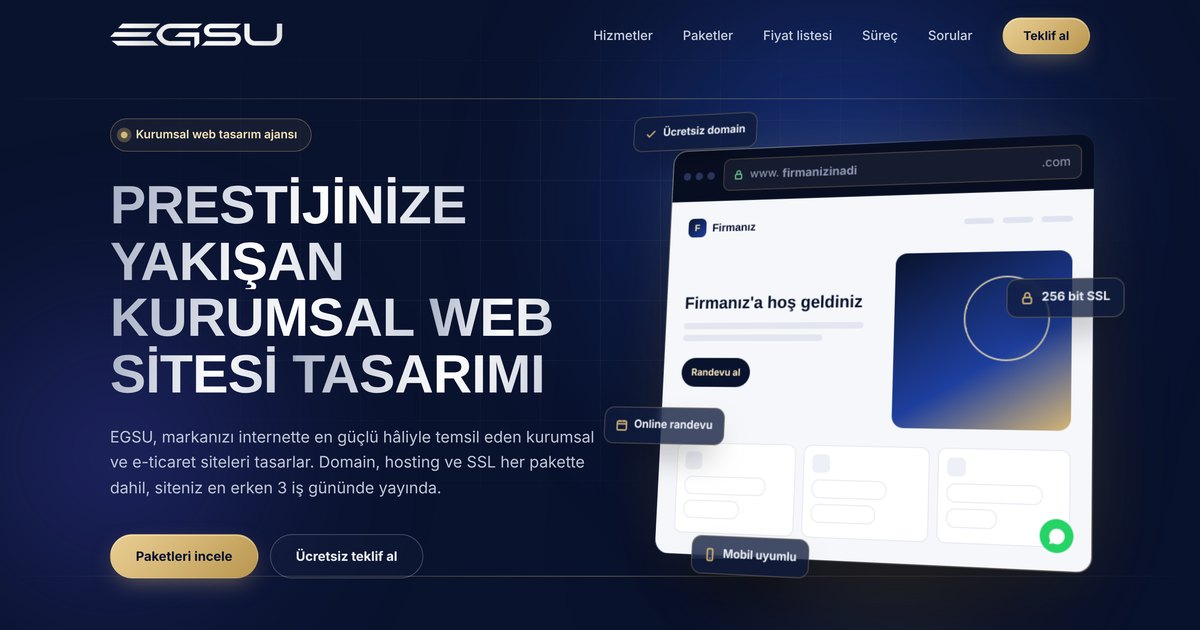
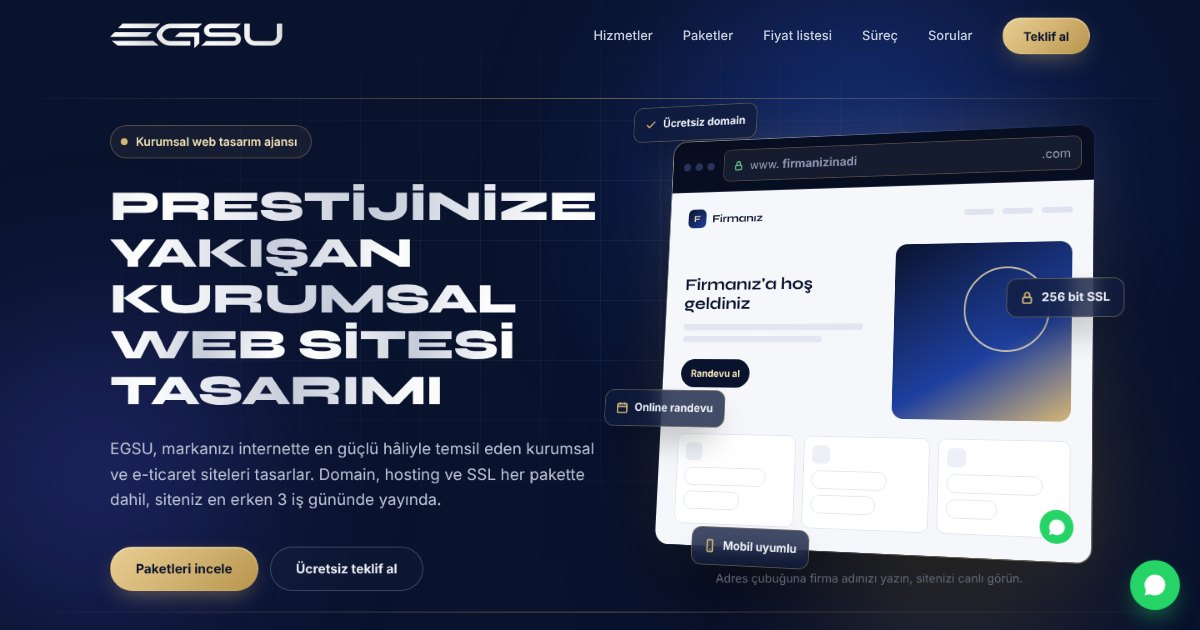
Google etiketi (GTM-5QWC6R9S) ve güncel paylaşım görseli
Etiket sayfa yüklendikten sonra yükleniyor, kimlik panelden değiştirilebilir.

Claude-Session: https://claude.ai/code/session_017BsL4oFVdKEUqwt59FjHYg

diff --git a/yonetim/render.js b/yonetim/render.js
@@ -48,7 +48,9 @@
   function delay(i, step, base) { return ' style="--d:' + ((base || 0) + i * step).toFixed(2).replace(/0+$/, '').replace(/^0/, '') + 's"'; }
 
   function head(o) {
-    return '<!DOCTYPE html>\n<html lang="tr">\n<head>\n<meta charset="UTF-8">\n' +
+    var tag = /^(GTM|G|AW)-[A-Z0-9]+$/.test(o.tagId || '') ? o.tagId : '';
+    var tagJs = tag ? '<script>window.dataLayer=window.dataLayer||[];function gtag(){dataLayer.push(arguments)}gtag(\'js\',new Date());' + (tag.indexOf('GTM-') === 0 ? '' : 'gtag(\'config\',\'' + tag + '\');') + '(function(){function l(){var s=document.createElement(\'script\');s.async=true;s.src=\'https://www.googletagmanager.com/' + (tag.indexOf('GTM-') === 0 ? 'gtm.js' : 'gtag/js') + '?id=' + tag + '\';document.head.appendChild(s)}if(document.readyState===\'complete\')setTimeout(l,1);else addEventListener(\'load\',function(){setTimeout(l,1)})})()</script>\n' : '';
+    return '<!DOCTYPE html>\n<html lang="tr">\n<head>\n' + tagJs + '<meta charset="UTF-8">\n' +
       '<script>(function(h){h.classList.add(\'js\');if(window.matchMedia&&matchMedia(\'(prefers-reduced-motion: reduce)\').matches)h.classList.add(\'rm\');try{if(' + (o.pre ? 'innerWidth<=768||sessionStorage.getItem(\'egsu-pre\')' : 'true') + ')h.classList.add(\'nopre\');sessionStorage.setItem(\'egsu-pre\',\'1\')}catch(e){h.classList.add(\'nopre\')}})(document.documentElement)</script>\n' +
       '<meta name="viewport" content="width=device-width, initial-scale=1">\n' +
       '<title>' + esc(o.title) + '</title>\n' +
@@ -62,10 +64,10 @@
       '<meta property="og:url" content="' + o.url + '">\n' +
       '<meta property="og:title" content="' + esc(o.shareTitle) + '">\n' +
       '<meta property="og:description" content="' + esc(o.shareDescription) + '">\n' +
-      '<meta property="og:image" content="' + SITE + '/og-image.jpg?v=5">\n<meta property="og:image:secure_url" content="' + SITE + '/og-image.jpg?v=5">\n' +
+      '<meta property="og:image" content="' + SITE + '/og-image.jpg?v=6">\n<meta property="og:image:secure_url" content="' + SITE + '/og-image.jpg?v=6">\n' +
       '<meta property="og:image:type" content="image/jpeg">\n<meta property="og:image:width" content="1200">\n<meta property="og:image:height" content="630">\n' +
       '<meta property="og:image:alt" content="EGSU ana sayfası: kurumsal web sitesi tasarımı">\n' +
-      '<meta name="twitter:card" content="summary_large_image">\n<meta name="twitter:image" content="' + SITE + '/og-image.jpg?v=5">\n' +
+      '<meta name="twitter:card" content="summary_large_image">\n<meta name="twitter:image" content="' + SITE + '/og-image.jpg?v=6">\n' +
       '<meta name="twitter:title" content="' + esc(o.shareTitle) + '">\n<meta name="twitter:description" content="' + esc(o.shareDescription) + '">\n' +
       '<link rel="icon" href="/favicon.ico" sizes="any">\n<link rel="icon" type="image/png" sizes="48x48" href="/favicon-48.png">\n' +
       '<link rel="icon" type="image/png" sizes="512x512" href="/favicon-512.png">\n<link rel="apple-touch-icon" href="/apple-touch-icon.png">\n' +
@@ -78,6 +80,7 @@
       '<style>\n' + o.css + '\n</style>\n</head>\n';
   }
 
+  function gtmNs(data) { var t = data.seo.googleTagId || ''; return /^GTM-[A-Z0-9]+$/.test(t) ? '<noscript><iframe src="https://www.googletagmanager.com/ns.html?id=' + t + '" height="0" width="0" style="display:none;visibility:hidden" title="Google Tag Manager"></iframe></noscript>\n' : ''; }
   function navLinks(data, home) {
     var p = home ? '' : '/';
     var refs = data.references.items.length ? '<a href="/referanslar/"' + (home ? '' : ' aria-current="page"') + '>' + esc(data.references.navLabel) + '</a>' : '';
@@ -138,9 +141,9 @@
       ]
     };
     var o = [];
-    o.push(head({ pre: true, title: data.seo.title, description: data.seo.description, shareTitle: data.seo.shareTitle, shareDescription: data.seo.shareDescription, url: SITE + '/', ld: ld, css: css,
+    o.push(head({ tagId: data.seo.googleTagId, pre: true, title: data.seo.title, description: data.seo.description, shareTitle: data.seo.shareTitle, shareDescription: data.seo.shareDescription, url: SITE + '/', ld: ld, css: css,
       preload: '<link rel="preload" as="image" href="/logo.webp" type="image/webp" fetchpriority="high">\n' }));
-    o.push('<body>\n<a class="skip" href="#icerik">İçeriğe geç</a>\n');
+    o.push('<body>\n' + gtmNs(data) + '<a class="skip" href="#icerik">İçeriğe geç</a>\n');
     o.push('<div id="pre" aria-hidden="true"><div class="cols"><i></i><i></i><i></i><i></i><i></i><i></i></div><div class="pl-in"><div class="lg"><img src="/logo.webp" width="441" height="64" alt="" fetchpriority="high"></div><div class="meta"><span class="bar"><i></i></span><span class="pct" id="pct">00</span></div></div></div>\n');
     o.push('<div id="prog" aria-hidden="true"></div>\n<div class="grain" aria-hidden="true"></div>\n\n');
     o.push(header(data, true));
@@ -256,9 +259,9 @@
     };
     var first = items[0] && items[0].image;
     var o = [];
-    o.push(head({ pre: false, title: R.seoTitle, description: R.seoDescription, shareTitle: R.seoTitle, shareDescription: R.seoDescription, url: url, ld: ld, css: css,
+    o.push(head({ tagId: data.seo.googleTagId, pre: false, title: R.seoTitle, description: R.seoDescription, shareTitle: R.seoTitle, shareDescription: R.seoDescription, url: url, ld: ld, css: css,
       preload: first ? '<link rel="preload" as="image" href="' + esc(imgSrc(first)) + '" fetchpriority="high">\n' : '' }));
-    o.push('<body class="sub">\n<a class="skip" href="#icerik">İçeriğe geç</a>\n<div id="prog" aria-hidden="true"></div>\n<div class="grain" aria-hidden="true"></div>\n\n');
+    o.push('<body class="sub">\n' + gtmNs(data) + '<a class="skip" href="#icerik">İçeriğe geç</a>\n<div id="prog" aria-hidden="true"></div>\n<div class="grain" aria-hidden="true"></div>\n\n');
     o.push(header(data, false));
     o.push('\n<main id="icerik">\n<section class="rf-hero" aria-labelledby="h1">\n  <div class="aurora-p" aria-hidden="true"><div class="aurora"><i></i><i></i><i></i></div></div><span class="hline b" aria-hidden="true"></span>\n  <div class="wrap">\n');
     o.push('    <nav class="crumb" aria-label="Sayfa konumu" data-r><a href="/">Ana sayfa</a><span aria-hidden="true">/</span><span aria-current="page">' + esc(R.navLabel) + '</span></nav>\n');

diff --git a/index.html b/index.html
@@ -1,6 +1,7 @@
 <!DOCTYPE html>
 <html lang="tr">
 <head>
+<script>window.dataLayer=window.dataLayer||[];function gtag(){dataLayer.push(arguments)}gtag('js',new Date());(function(){function l(){var s=document.createElement('script');s.async=true;s.src='https://www.googletagmanager.com/gtm.js?id=GTM-5QWC6R9S';document.head.appendChild(s)}if(document.readyState==='complete')setTimeout(l,1);else addEventListener('load',function(){setTimeout(l,1)})})()</script>
 <meta charset="UTF-8">
 <script>(function(h){h.classList.add('js');if(window.matchMedia&&matchMedia('(prefers-reduced-motion: reduce)').matches)h.classList.add('rm');try{if(innerWidth<=768||sessionStorage.getItem('egsu-pre'))h.classList.add('nopre');sessionStorage.setItem('egsu-pre','1')}catch(e){h.classList.add('nopre')}})(document.documentElement)</script>
 <meta name="viewport" content="width=device-width, initial-scale=1">
@@ -19,14 +20,14 @@
 <meta property="og:url" content="https://egsudijital.com/">
 <meta property="og:title" content="Web Sitesi Tasarım Fiyatları 2026 | EGSU">
 <meta property="og:description" content="Kurumsal web sitesi, e-ticaret, SEO ve Google Ads. Domain, hosting ve SSL her pakette dahil.">
-<meta property="og:image" content="https://egsudijital.com/og-image.jpg?v=5">
-<meta property="og:image:secure_url" content="https://egsudijital.com/og-image.jpg?v=5">
+<meta property="og:image" content="https://egsudijital.com/og-image.jpg?v=6">
+<meta property="og:image:secure_url" content="https://egsudijital.com/og-image.jpg?v=6">
 <meta property="og:image:type" content="image/jpeg">
 <meta property="og:image:width" content="1200">
 <meta property="og:image:height" content="630">
 <meta property="og:image:alt" content="EGSU ana sayfası: kurumsal web sitesi tasarımı">
 <meta name="twitter:card" content="summary_large_image">
-<meta name="twitter:image" content="https://egsudijital.com/og-image.jpg?v=5">
+<meta name="twitter:image" content="https://egsudijital.com/og-image.jpg?v=6">
 <meta name="twitter:title" content="Web Sitesi Tasarım Fiyatları 2026 | EGSU">
 <meta name="twitter:description" content="Kurumsal web sitesi, e-ticaret, SEO ve Google Ads. Domain, hosting ve SSL her pakette dahil.">
 <link rel="icon" href="/favicon.ico" sizes="any">
@@ -478,6 +479,7 @@ section.rf-list{padding:40px 0 130px}
 </style>
 </head>
 <body>
+<noscript><iframe src="https://www.googletagmanager.com/ns.html?id=GTM-5QWC6R9S" height="0" width="0" style="display:none;visibility:hidden" title="Google Tag Manager"></iframe></noscript>
 <a class="skip" href="#icerik">İçeriğe geç</a>
 <div id="pre" aria-hidden="true"><div class="cols"><i></i><i></i><i></i><i></i><i></i><i></i></div><div class="pl-in"><div class="lg"><img src="/logo.webp" width="441" height="64" alt="" fetchpriority="high"></div><div class="meta"><span class="bar"><i></i></span><span class="pct" id="pct">00</span></div></div></div>
 <div id="prog" aria-hidden="true"></div>

diff --git a/referanslar/index.html b/referanslar/index.html
@@ -1,6 +1,7 @@
 <!DOCTYPE html>
 <html lang="tr">
 <head>
+<script>window.dataLayer=window.dataLayer||[];function gtag(){dataLayer.push(arguments)}gtag('js',new Date());(function(){function l(){var s=document.createElement('script');s.async=true;s.src='https://www.googletagmanager.com/gtm.js?id=GTM-5QWC6R9S';document.head.appendChild(s)}if(document.readyState==='complete')setTimeout(l,1);else addEventListener('load',function(){setTimeout(l,1)})})()</script>
 <meta charset="UTF-8">
 <script>(function(h){h.classList.add('js');if(window.matchMedia&&matchMedia('(prefers-reduced-motion: reduce)').matches)h.classList.add('rm');try{if(true)h.classList.add('nopre');sessionStorage.setItem('egsu-pre','1')}catch(e){h.classList.add('nopre')}})(document.documentElement)</script>
 <meta name="viewport" content="width=device-width, initial-scale=1">
@@ -19,14 +20,14 @@
 <meta property="og:url" content="https://egsudijital.com/referanslar/">
 <meta property="og:title" content="Referanslar | EGSU Web Tasarım">
 <meta property="og:description" content="EGSU'nun tasarlayıp yayına aldığı kurumsal web siteleri ve e-ticaret projeleri. Referans çalışmalarımızı inceleyin.">
-<meta property="og:image" content="https://egsudijital.com/og-image.jpg?v=5">
-<meta property="og:image:secure_url" content="https://egsudijital.com/og-image.jpg?v=5">
+<meta property="og:image" content="https://egsudijital.com/og-image.jpg?v=6">
+<meta property="og:image:secure_url" content="https://egsudijital.com/og-image.jpg?v=6">
 <meta property="og:image:type" content="image/jpeg">
 <meta property="og:image:width" content="1200">
 <meta property="og:image:height" content="630">
 <meta property="og:image:alt" content="EGSU ana sayfası: kurumsal web sitesi tasarımı">
 <meta name="twitter:card" content="summary_large_image">
-<meta name="twitter:image" content="https://egsudijital.com/og-image.jpg?v=5">
+<meta name="twitter:image" content="https://egsudijital.com/og-image.jpg?v=6">
 <meta name="twitter:title" content="Referanslar | EGSU Web Tasarım">
 <meta name="twitter:description" content="EGSU'nun tasarlayıp yayına aldığı kurumsal web siteleri ve e-ticaret projeleri. Referans çalışmalarımızı inceleyin.">
 <link rel="icon" href="/favicon.ico" sizes="any">
@@ -477,6 +478,7 @@ section.rf-list{padding:40px 0 130px}
 </style>
 </head>
 <body class="sub">
+<noscript><iframe src="https://www.googletagmanager.com/ns.html?id=GTM-5QWC6R9S" height="0" width="0" style="display:none;visibility:hidden" title="Google Tag Manager"></iframe></noscript>
 <a class="skip" href="#icerik">İçeriğe geç</a>
 <div id="prog" aria-hidden="true"></div>
 <div class="grain" aria-hidden="true"></div>

diff --git a/yonetim/index.html b/yonetim/index.html
@@ -199,7 +199,8 @@ var SECTIONS=[
    {row:[{k:'shareTitle',t:'text',l:'Paylaşım başlığı',max:70},{k:'priceRange',t:'text',l:'Fiyat aralığı',h:'Örnek: 10.000 TL - 180.000 TL'}]},
    {k:'shareDescription',t:'textarea',l:'Paylaşım açıklaması',max:200},
    {k:'businessDescription',t:'textarea',l:'İşletme tanımı',h:'Google ve yapay zekâ asistanlarının EGSU\'yu tanımak için okuduğu kısa tanım.'},
-   {k:'cities',t:'list',l:'Hizmet verilen şehirler',add:'Şehir ekle'}]},
+   {k:'cities',t:'list',l:'Hizmet verilen şehirler',add:'Şehir ekle'},
+   {k:'googleTagId',t:'text',l:'Google etiket kimliği',h:'Google Tag Manager veya Analytics kimliği, örnek: GTM-5QWC6R9S. Boş bırakılırsa etiket kaldırılır.'}]},
  {id:'contact',title:'İletişim bilgileri',icon:'<path d="M22 16.9v3a2 2 0 0 1-2.2 2 19.8 19.8 0 0 1-8.6-3.1 19.5 19.5 0 0 1-6-6A19.8 19.8 0 0 1 2.1 4.2 2 2 0 0 1 4.1 2h3a2 2 0 0 1 2 1.7c.1.9.4 1.8.7 2.7a2 2 0 0 1-.5 2.1L8 9.8a16 16 0 0 0 6 6l1.3-1.3a2 2 0 0 1 2.1-.4c.9.3 1.8.6 2.7.7a2 2 0 0 1 1.7 2z"/>',desc:'Telefon, WhatsApp ve e-posta. Değiştirdiğinizde sitedeki tüm butonlar, form ve Google bilgileri birlikte güncellenir.',path:'contact',fields:[
    {k:'phones',t:'list',l:'Telefon numaraları',add:'Numara ekle',h:'0507 246 17 06 biçiminde yazın.'},
    {row:[{k:'whatsapp',t:'text',l:'WhatsApp numarası'},{k:'email',t:'text',l:'E-posta'}]},
